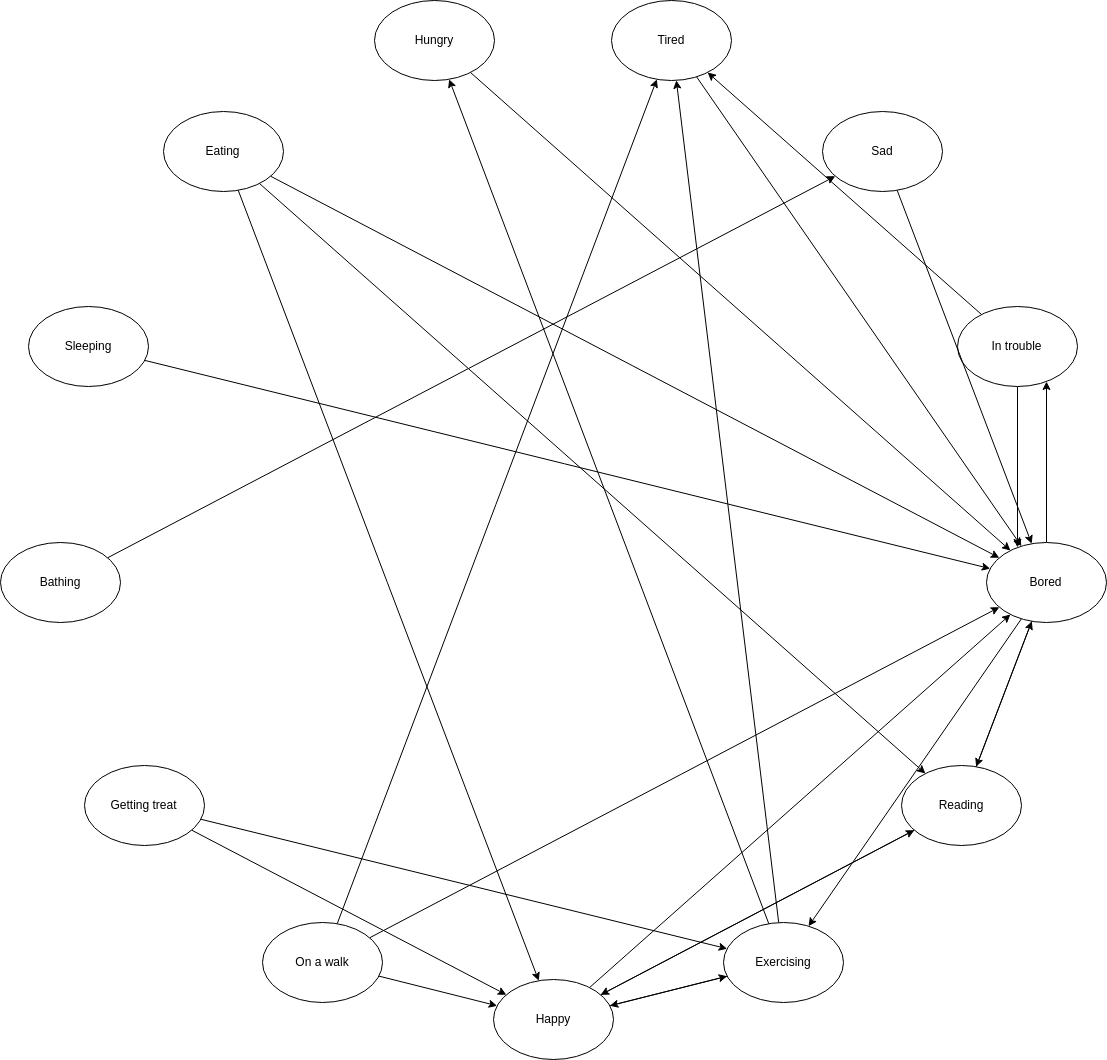
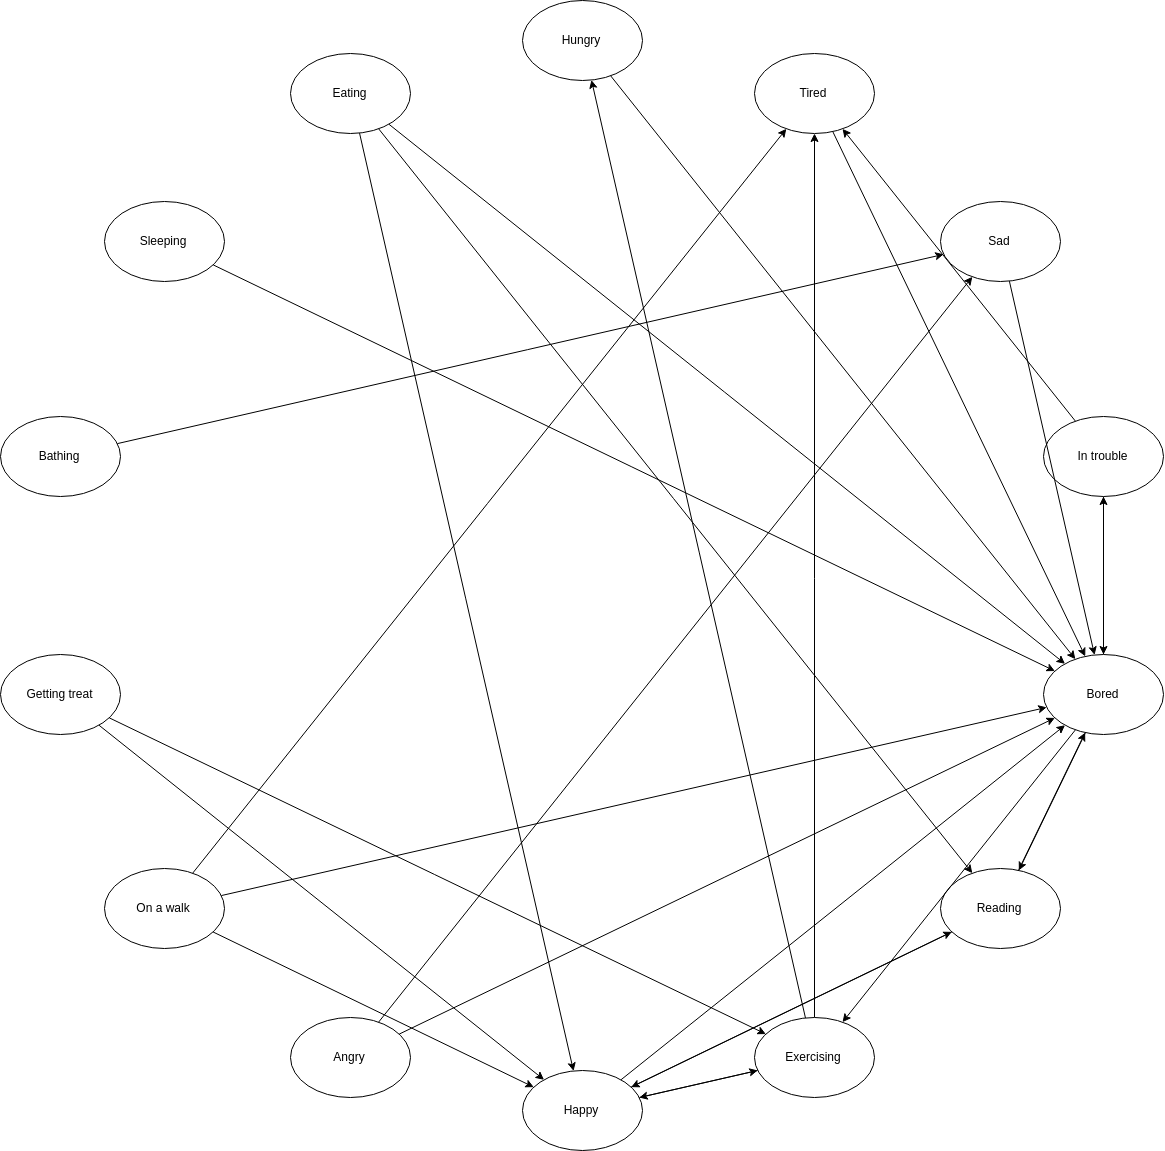
Non-deterministic stimuli

diff --git a/docs.html b/docs.html
@@ -28,7 +28,7 @@ Drexel CS164
         <br>
         <img src="assets/state-diagram.png" alt="State diagram">
         <br>
-        <p>As a house snail, Gary is used to being left alone sometimes, and so he exhibits a sequence of semirandom behaviors throughout the day. He will try to entertain himself and express physical needs due to hunger and fatigue. When interacted with, this will automatically set his state in response to the stimuli. There are certain states that can only be reached by human interaction, which each lead back into Gary's natural state flow. For instance, you found that he tends to get tired from walks, and baths make him sad!</p>
+        <p>As a house snail, Gary is used to being left alone sometimes, and so he exhibits a sequence of semirandom behaviors throughout the day. He will try to entertain himself and express physical needs due to hunger and fatigue. When interacted with, this will automatically set his state in response to the stimuli. There are certain states that can only be reached by human interaction, which each lead back into Gary's natural state flow. For instance, you found that he tends to get tired from walks, and baths make him sad! Other times, however, his behavior is less deterministic.</p>
         <h2 id="docs">Program Architecture</h2>
         <h3>Adding states and stimuli</h3>
         <p>All of the possible states that Gary can reach and stimuli that he can respond to are organized in the "states" and "stimuli" global arrays of <code>virtual-pet.js</code>. To add a new state, just abide by the following format. New corresponding images should be placed in <code>assets/pet-pics/</code>.</p>
@@ -53,7 +53,8 @@ Drexel CS164
     name: "pet", // System name
     desc: "Pet", // Action available to user
     effects: [ // List of possible states caused
-        "happy"
+        "happy",
+        "angry"
     ]
 },
 </code>

diff --git a/virtual-pet.js b/virtual-pet.js
@@ -129,6 +129,15 @@ var states = [
             "happy",
             "tired"
         ]
+    },
+    {
+        name: "angry",
+        desc: "Gary is seething with rage!",
+        img: "gary-angry.png",
+        next: [
+            "sad",
+            "bored"
+        ]
     }
 ];
 
@@ -138,7 +147,8 @@ var stimuli = [
         name: "pet", // System name
         desc: "Pet", // Action available to user
         effects: [ // List of possible states caused
-            "happy"
+            "happy",
+            "angry"
         ]
     },
     {
@@ -166,14 +176,17 @@ var stimuli = [
         name: "bathe",
         desc: "Give bath",
         effects: [
-            "bath" 
+            "bath",
+            "angry"
         ]
     },
     {
         name: "sleep",
         desc: "Send to bed",
         effects: [
-            "sleeping"
+            "sleeping",
+            "sad",
+            "angry"
         ]
     }
 ];
